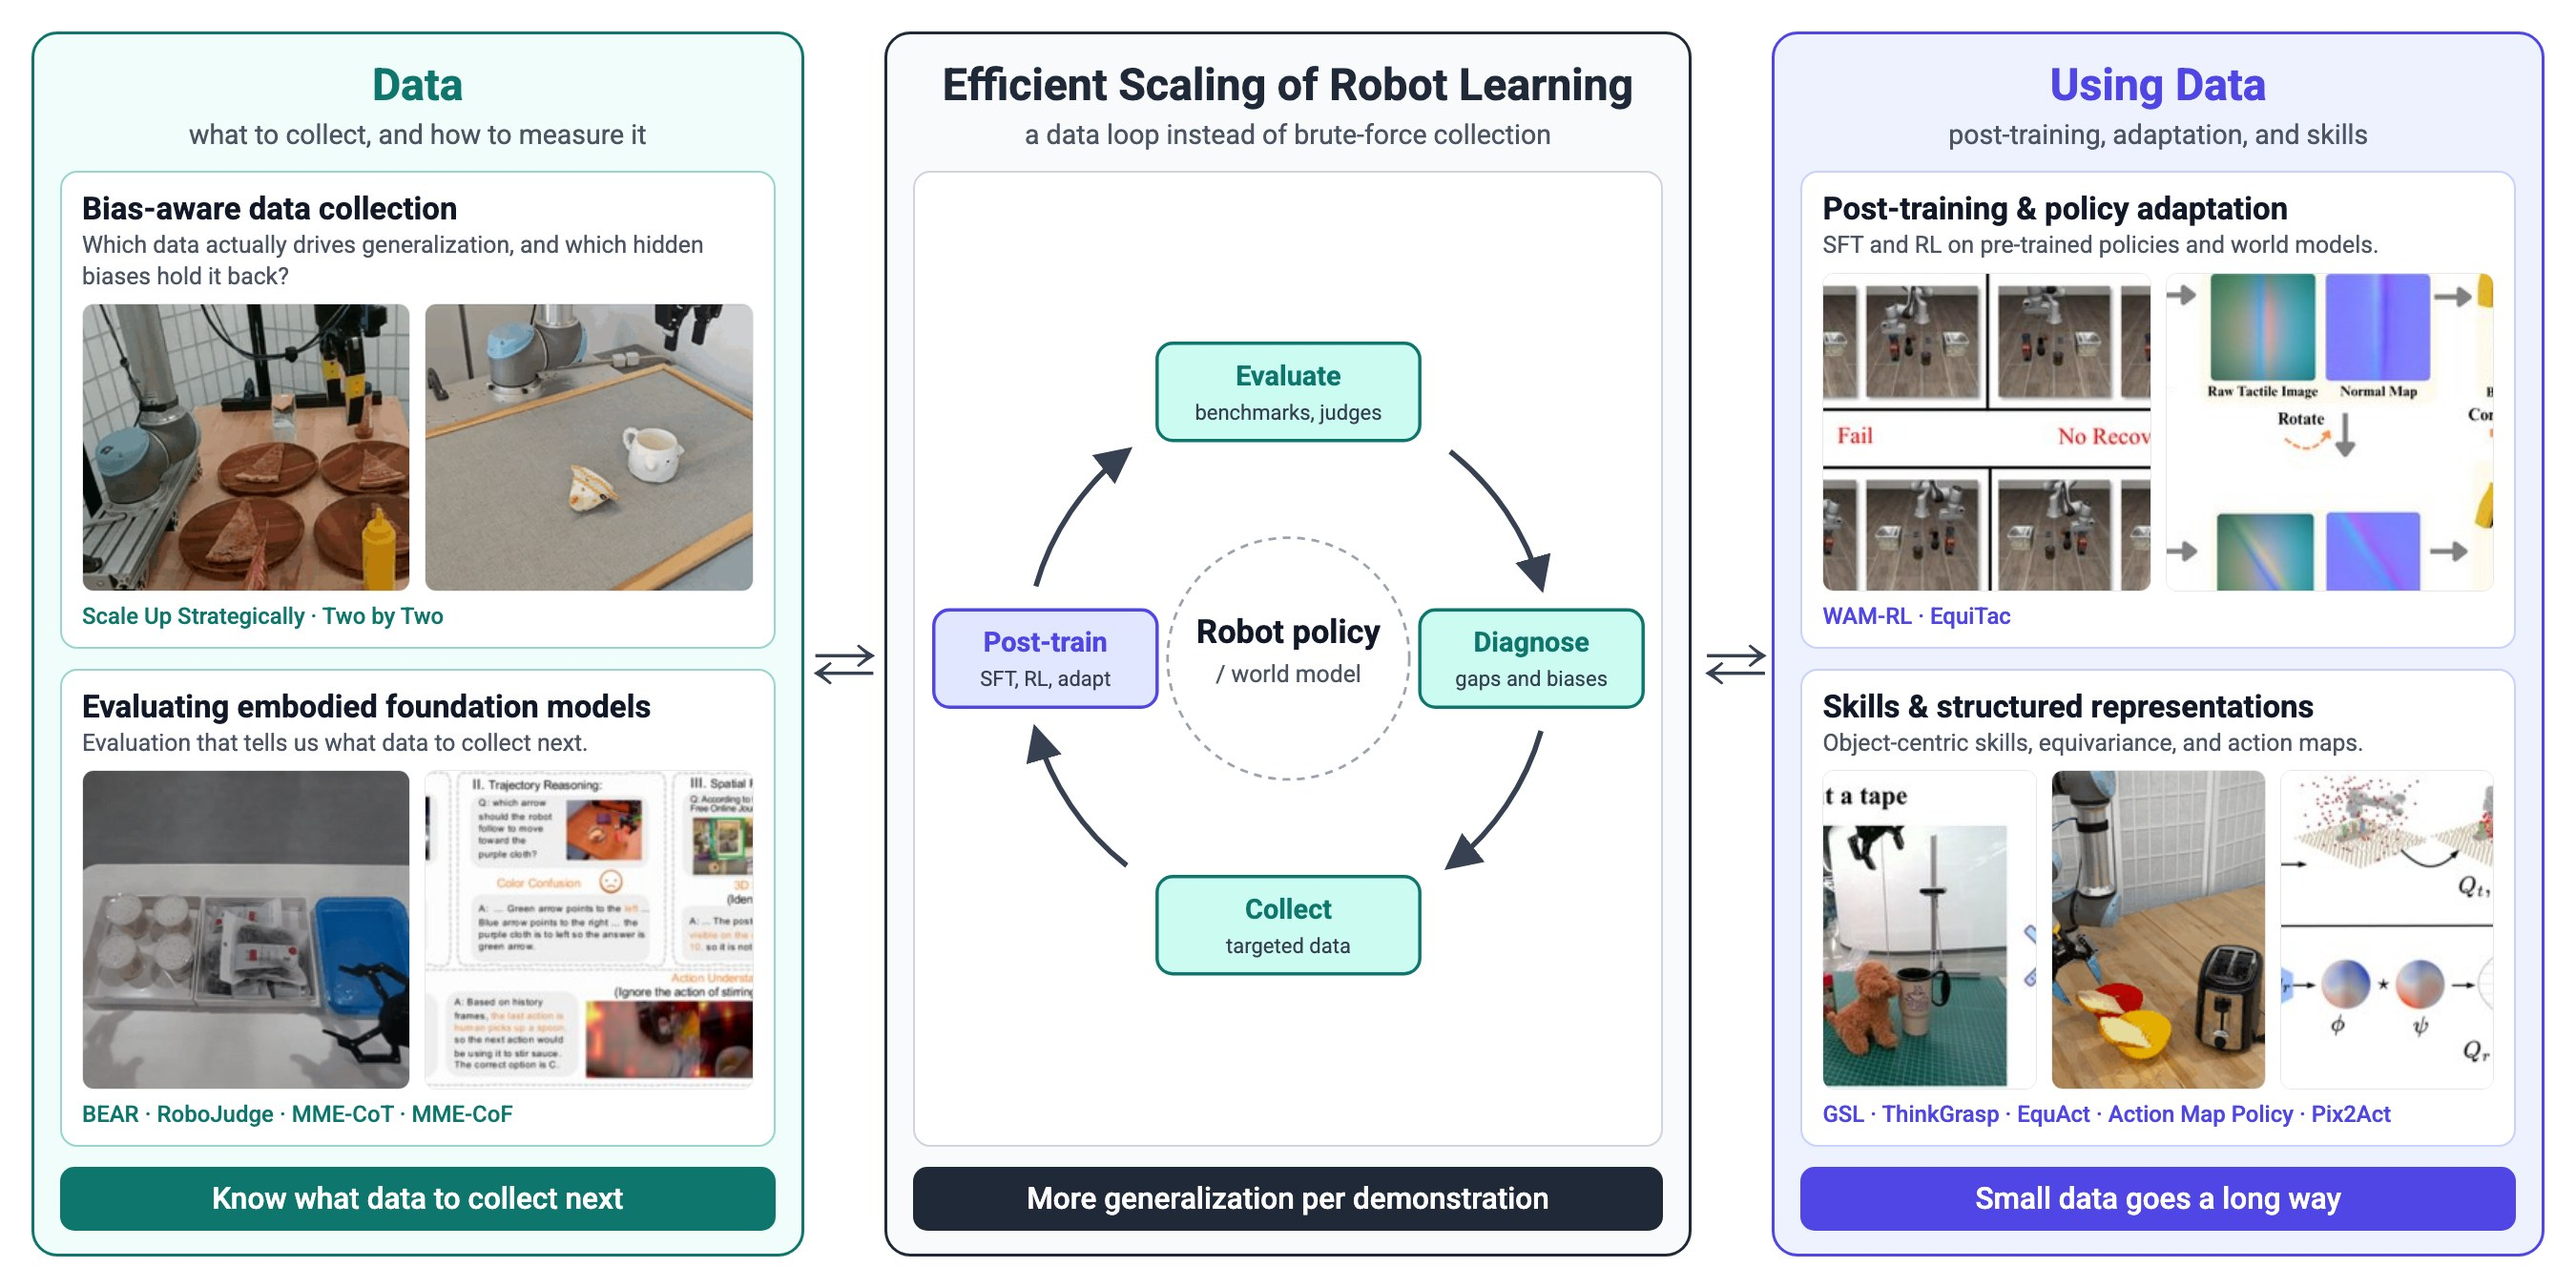
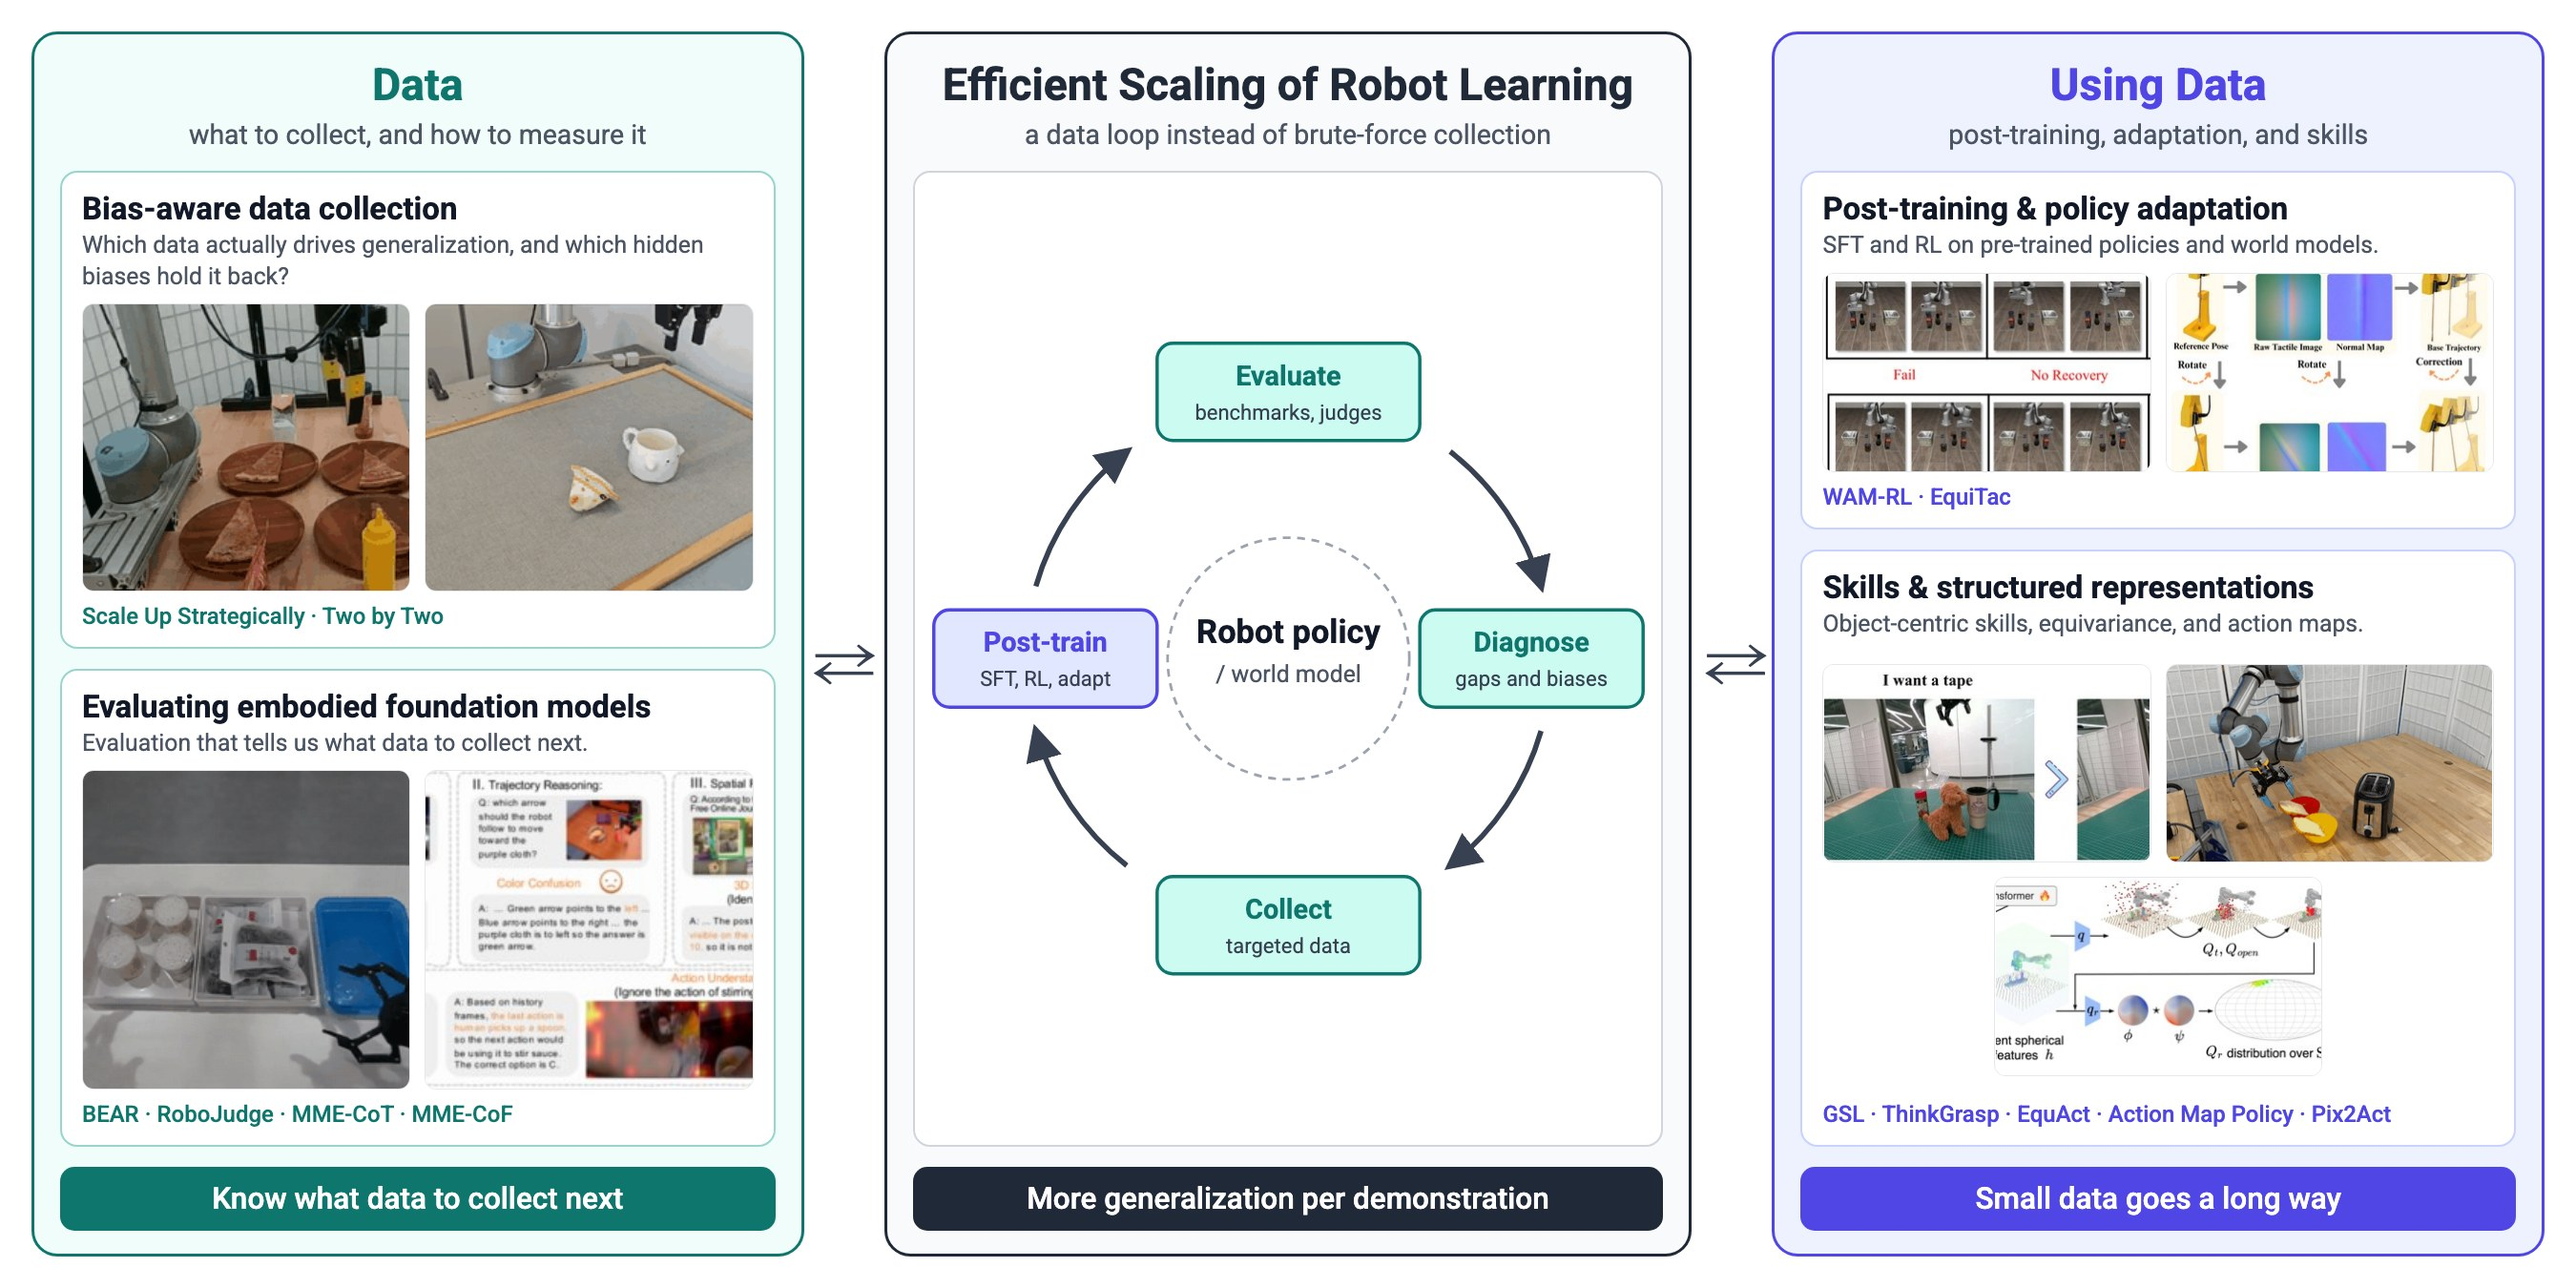
Overview: show post-training/skill thumbnails uncropped; highlight MME-CoF-Pro and MME-CoF

Changed region(s): [[0.6844, 0.1867, 0.9956, 0.8711]]

diff --git a/index.html b/index.html
@@ -217,8 +217,8 @@
       and <b>skill learning</b>.</p>
 
     <figure class="overview">
-      <a href="assets/research-overview.jpg" target="_blank" rel="noopener"><img src="assets/research-overview.jpg" alt="Research overview: a data loop for efficient scaling of robot learning. Evaluate with benchmarks and judges, diagnose gaps and biases, collect targeted data, and post-train the policy or world model. Left: work on what data to collect and how to measure it. Right: work on post-training, adaptation, and skills." loading="lazy"></a>
-      <figcaption>Two threads around one loop: measure what is missing, collect it, and post-train on it. <a href="assets/research-overview.jpg" target="_blank" rel="noopener">View full figure</a></figcaption>
+      <a href="assets/research-overview.jpg?v=2" target="_blank" rel="noopener"><img src="assets/research-overview.jpg?v=2" alt="Research overview: a data loop for efficient scaling of robot learning. Evaluate with benchmarks and judges, diagnose gaps and biases, collect targeted data, and post-train the policy or world model. Left: work on what data to collect and how to measure it. Right: work on post-training, adaptation, and skills." loading="lazy"></a>
+      <figcaption>Two threads around one loop: measure what is missing, collect it, and post-train on it. <a href="assets/research-overview.jpg?v=2" target="_blank" rel="noopener">View full figure</a></figcaption>
     </figure>
 
     <div class="pillar" style="--c:#0f766e">
@@ -465,7 +465,7 @@
       </div>
     </div>
 
-    <div class="pub">
+    <div class="pub hl">
       <a class="thumb" style="--g1:#6d28d9;--g2:#a855f7" href="https://arxiv.org/abs/2603.20194" target="_blank" rel="noopener">
         <img src="assets/pubs/mmecofpro.gif" alt="" loading="lazy" onerror="this.remove()">
         <span class="tv">ECCV<br>2026</span>
@@ -481,7 +481,7 @@
         <div class="desc">A video reasoning benchmark for reasoning coherence — whether generated events stay causally consistent across frames — evaluated with and without text and visual hints.</div>
       </div>
     </div>
-    <div class="pub">
+    <div class="pub hl">
       <a class="thumb" style="--g1:#c2410c;--g2:#f59e0b" href="https://arxiv.org/abs/2510.26802" target="_blank" rel="noopener">
         <img src="assets/pubs/mmecof.gif" alt="" loading="lazy" onerror="this.remove()">
         <span class="tv">CVPR<br>2026</span>
